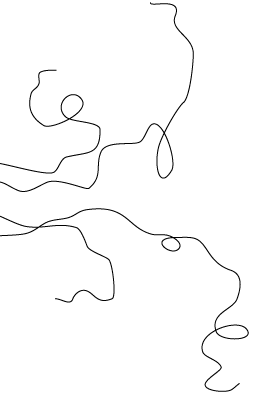
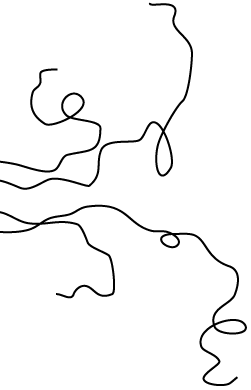
Animate title page

diff --git a/static/css/chapters/frontmatter.css b/static/css/chapters/frontmatter.css
@@ -103,10 +103,45 @@
 
 .warning { -webkit-border-radius: 5px; -moz-border-radius: 5px; -ms-border-radius: 5px; -o-border-radius: 5px; border-radius: 5px; border-style: solid; border-width: 0.083em; padding: 0.542em; background: #ffbfbf; }
 
+@-moz-keyframes line1 { 0% { background-position: 827px 7.5em; }
+  100% { background-position: 0 7.5em; } }
+
+@-webkit-keyframes line1 { 0% { background-position: 827px 7.5em; }
+  100% { background-position: 0 7.5em; } }
+
+@-o-keyframes line1 { 0% { background-position: 827px 7.5em; }
+  100% { background-position: 0 7.5em; } }
+
+@-ms-keyframes line1 { 0% { background-position: 827px 7.5em; }
+  100% { background-position: 0 7.5em; } }
+
+@keyframes line1 { 0% { background-position: 827px 7.5em; }
+  100% { background-position: 0 7.5em; } }
+
+@-moz-keyframes line2 { 0% { background-position: 827px 9.375em; }
+  100% { background-position: 0 9.375em; } }
+
+@-webkit-keyframes line2 { 0% { background-position: 827px 9.375em; }
+  100% { background-position: 0 9.375em; } }
+
+@-o-keyframes line2 { 0% { background-position: 827px 9.375em; }
+  100% { background-position: 0 9.375em; } }
+
+@-ms-keyframes line2 { 0% { background-position: 827px 9.375em; }
+  100% { background-position: 0 9.375em; } }
+
+@keyframes line2 { 0% { background-position: 827px 9.375em; }
+  100% { background-position: 0 9.375em; } }
+
 #title { background: #d4ead4; background-image: -webkit-gradient(linear, 0% 0%, 100% 100%, color-stop(0%, #ffe5ff), color-stop(50%, #ffe5ff), color-stop(50%, #d4ead4), color-stop(100%, #d4ead4)); background-image: -webkit-linear-gradient(top left, #ffe5ff, #ffe5ff 50%, #d4ead4 50%, #d4ead4); background-image: -moz-linear-gradient(top left, #ffe5ff, #ffe5ff 50%, #d4ead4 50%, #d4ead4); background-image: -o-linear-gradient(top left, #ffe5ff, #ffe5ff 50%, #d4ead4 50%, #d4ead4); background-image: -ms-linear-gradient(top left, #ffe5ff, #ffe5ff 50%, #d4ead4 50%, #d4ead4); background-image: linear-gradient(top left, #ffe5ff, #ffe5ff 50%, #d4ead4 50%, #d4ead4); }
-#title [role="main"] { max-width: 20.5em; margin-left: auto; margin-right: auto; padding-left: 0.5em; padding-right: 0.5em; padding-top: 1.875em; padding-bottom: 1.25em; -webkit-transition: padding 300ms; -moz-transition: padding 300ms; -ms-transition: padding 300ms; -o-transition: padding 300ms; transition: padding 300ms; color: #404040; text-align: center; }
-#title [role="main"]:after { content: ""; display: table; clear: both; }
-@media all and (min-height: 32em) { #title [role="main"] { padding-top: 3.75em; } }
+#title, #title [role="main"], #title .wrap1 { -webkit-transition: all 300ms; -moz-transition: all 300ms; -ms-transition: all 300ms; -o-transition: all 300ms; transition: all 300ms; }
+@media all and (min-width: 30em) { #title [role="main"] { -webkit-animation: line1 30s linear infinite both; -moz-animation: line1 30s linear infinite both; -ms-animation: line1 30s linear infinite both; -o-animation: line1 30s linear infinite both; animation: line1 30s linear infinite both; background: url('../../images/frontmatter/titlepage/line.png?1340056009') repeat-x scroll 827px 7.5em; } }
+@media all and (min-width: 30em) and (min-height: 32em) { #title [role="main"] { -webkit-animation: line2 30s linear infinite both; -moz-animation: line2 30s linear infinite both; -ms-animation: line2 30s linear infinite both; -o-animation: line2 30s linear infinite both; animation: line2 30s linear infinite both; background-position: 827px 9.375em; } }
+#title .wrap1 { padding-top: 1.875em; padding-bottom: 1.25em; background: url('../../images/frontmatter/titlepage/strings_left.png?1340057318') no-repeat scroll -376.5px bottom, url('../../images/frontmatter/titlepage/strings_right.png?1340057309') no-repeat scroll 947.5px bottom; }
+@media all and (min-width: 50em) { #title .wrap1 { background-position: left bottom, right bottom; } }
+@media all and (min-height: 32em) { #title .wrap1 { padding-top: 3.75em; } }
+#title .wrap2 { max-width: 20.5em; margin-left: auto; margin-right: auto; padding-left: 0.5em; padding-right: 0.5em; color: #404040; text-align: center; }
+#title .wrap2:after { content: ""; display: table; clear: both; }
 #title h1, #title h2 { font-weight: bold; }
 #title h1 { font-size: 1.5em; line-height: 1.25em; }
 #title h2 { padding-bottom: 8.125em; margin-bottom: 0.625em; background: url('../../images/frontmatter/scribble.png?1339738503') no-repeat scroll center bottom; }

diff --git a/sass/chapters/frontmatter/_title.scss b/sass/chapters/frontmatter/_title.scss
@@ -1,37 +1,80 @@
 // ----------------------------------------------------------------------------
 // title: Into the Green Green Mud
 
-$img      : 'frontmatter/';
-$scribble : '#{$img}scribble.png';
+$img        : 'frontmatter/';
+$scribble   : '#{$img}scribble.png';
+
+$title-grad : linear-gradient(top left,
+                $pink-hint,
+                $pink-hint 50%,
+                $off-green-lightest 50%,
+                $off-green-lightest
+              );
+
+$titleimg   : '#{$img}titlepage/';
+$line       : '#{$titleimg}line.png';
+$left       : '#{$titleimg}strings_left.png';
+$right      : '#{$titleimg}strings_right.png';
+
+$bg         : $off-green-lightest;
+$line-pos   : 6;
+$string-pos : bottom;
+$grad-pos   : center;
+
+$line-start : image-width($line);
+$line-end   : 0;
+
+@include keyframes(line1) {
+  0% { background-position: $line-start rhythm($line-pos); }
+  100% { background-position: $line-end rhythm($line-pos); }
+}
+
+@include keyframes(line2) {
+  0% { background-position: $line-start rhythm($line-pos + 1.5); }
+  100% { background-position: $line-end rhythm($line-pos + 1.5); }
+}
 
 #title {
   // --------------------------------------------
   // Page background
-  @include background($off-green-lightest);
-  @include background-image(
-    linear-gradient(top left,
-      $pink-hint,
-      $pink-hint 50%,
-      $off-green-lightest 50%,
-      $off-green-lightest
-    )
-  );
+  @include background($bg);
+  @include background-image($title-grad);
+  &, & [role="main"], & .wrap1 { @include transition(all 300ms); }
 
   // --------------------------------------------
   // Main content
   [role="main"] {
-    @include container;
-    @include padding-leader(1.5);
-    @include padding-trailer;
-    @include transition(padding 300ms);
-    color: $darker;
-    text-align: center;
-
-    @media all and (min-height: 32em) {
-      @include padding-leader(3);
+    @include media(30em) {
+      @include animation(line1 30s linear infinite both);
+      background: image-url($line) repeat-x scroll $line-start rhythm($line-pos);
+      @media all and (min-height: 32em) {
+         @include animation(line2 30s linear infinite both);
+         background-position: $line-start rhythm($line-pos + 1.5);
+      }
     }
   }
 
+  .wrap1 {
+    @include padding-leader(1.5);
+    @include padding-trailer;
+    @include background(
+      image-url($left) no-repeat scroll (0 - image-width($left)*1.5) $string-pos,
+      image-url($right) no-repeat scroll (50*16px + image-width($right)*.5) $string-pos
+    );
+    @include media(50em) {
+      background-position: left $string-pos, right $string-pos;
+    }
+    @media all and (min-height: 32em) { @include padding-leader(3); }
+  }
+
+  .wrap2 {
+    @include container;
+    color: $darker;
+    text-align: center;
+  }
+
+  // --------------------------------------------
+  // Elements
   h1, h2 {
     font-weight: bold;
   }

diff --git a/content/title.html b/content/title.html
@@ -16,6 +16,9 @@ url: title.html
 {% filter markdown %}
 
 
+<div class="wrap1">
+<div class="wrap2">
+
 # Into the Green Green Mud
 ## a novel (with pictures)
 
@@ -26,6 +29,9 @@ by [Eric A. Meyer][eam]
 [eam]: http://eric.andmeyer.com/
 [tg]: http://teacupgorilla.com/
 [obc]: http://oddbird.net/
+
+</div>
+</div>
 
 
 {% endfilter %}

diff --git a/greenmud.md b/greenmud.md
@@ -10,6 +10,9 @@ next:
     url: copyright.html
 -->
 
+<div class="wrap1">
+<div class="wrap2">
+
 # Into the Green Green Mud
 ## a novel (with pictures)
 
@@ -20,6 +23,9 @@ by [Eric A. Meyer][eam]
 [eam]: http://eric.andmeyer.com/
 [tg]: http://teacupgorilla.com/
 [obc]: http://oddbird.net/
+
+</div>
+</div>
 
 ------
 
